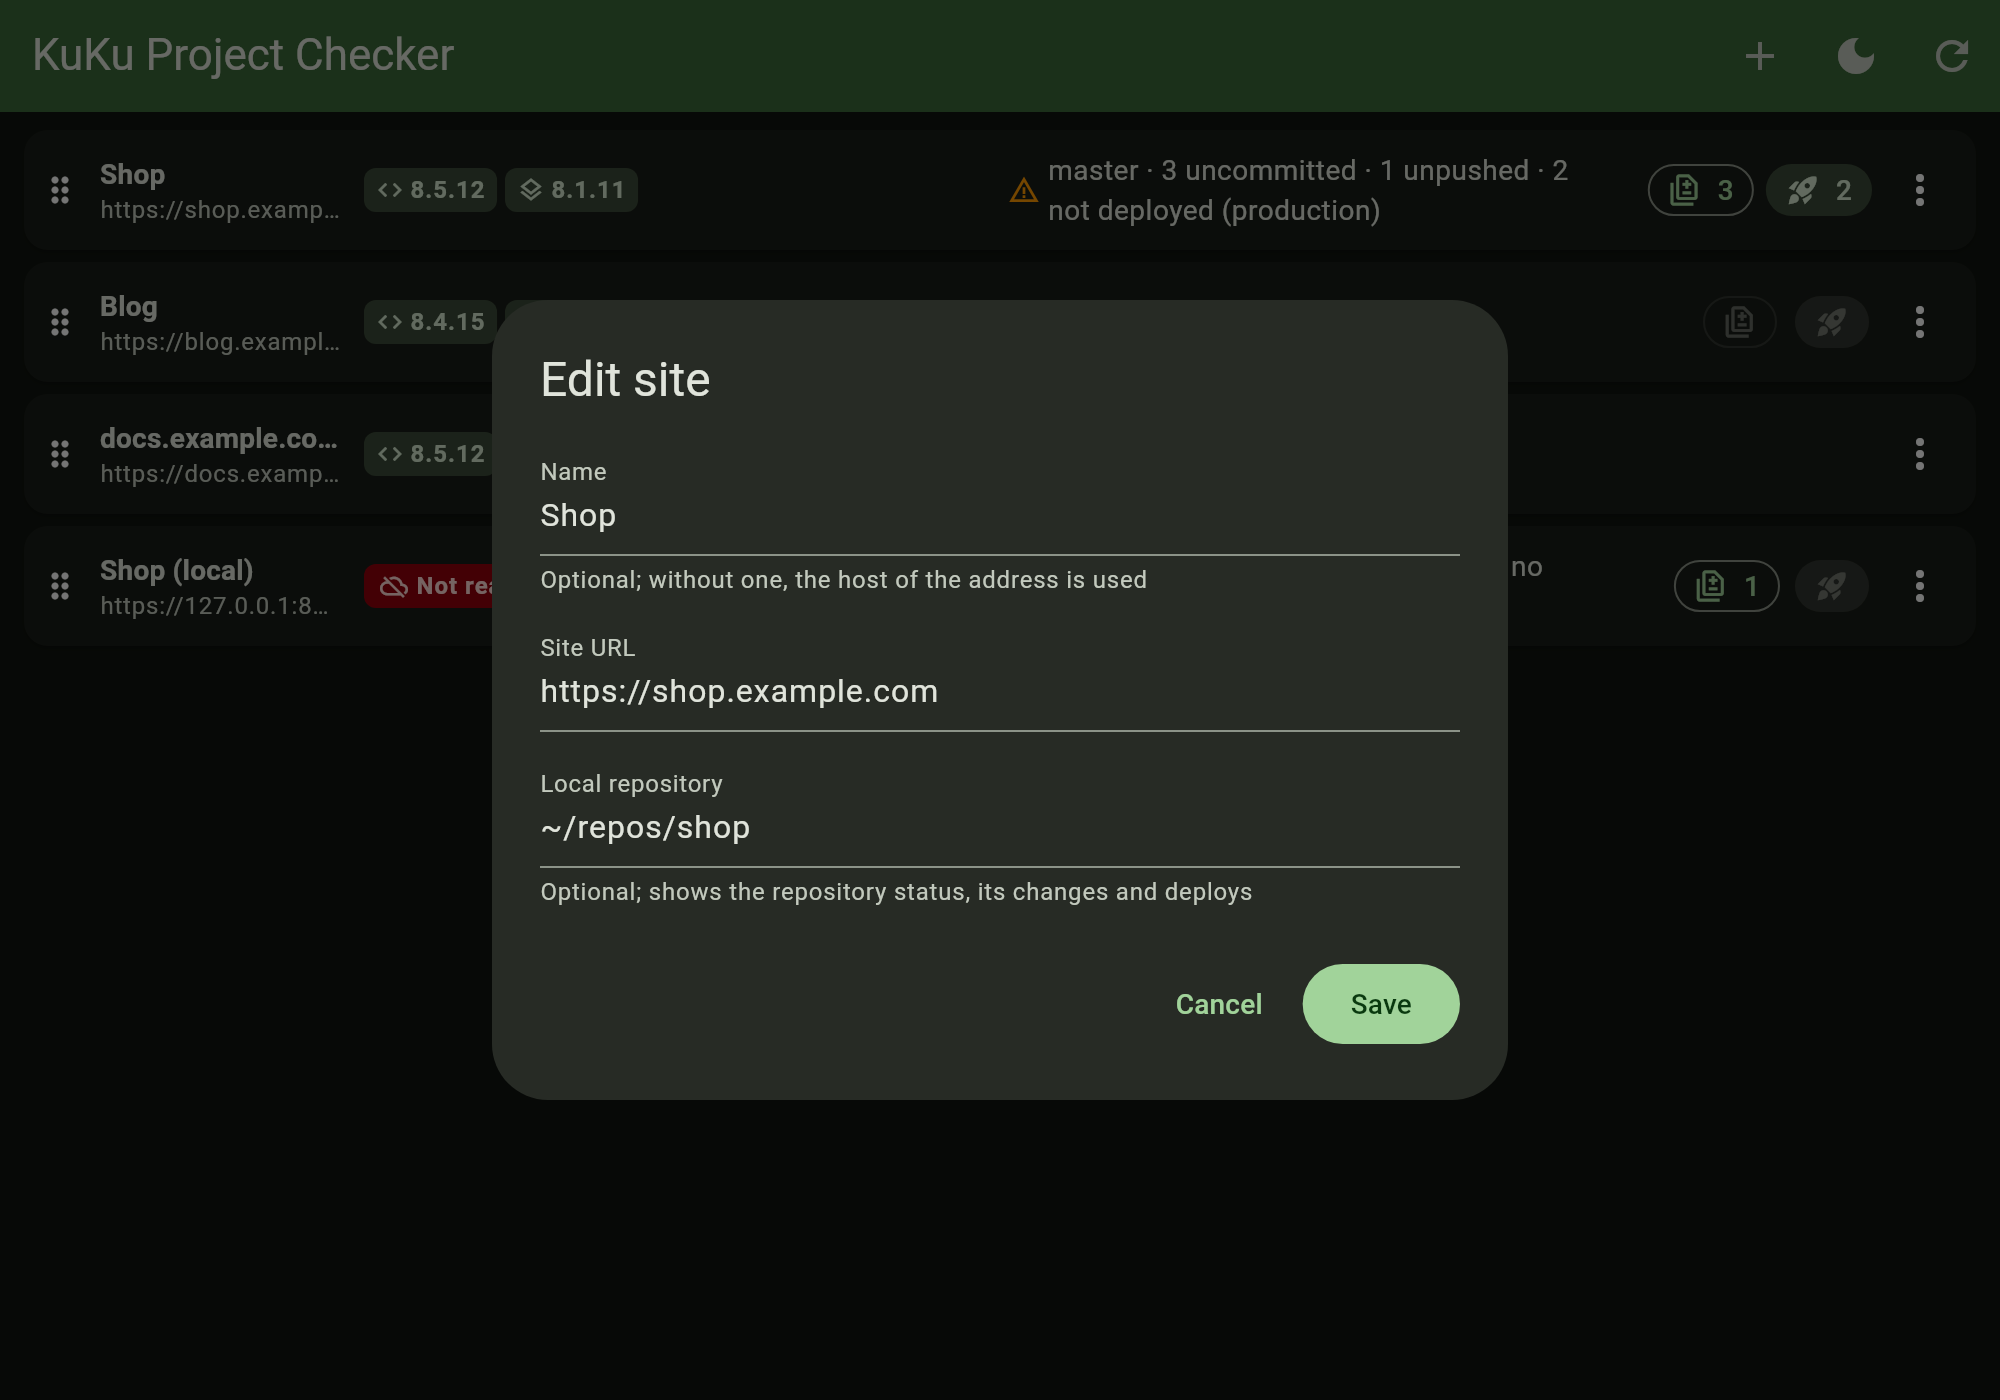
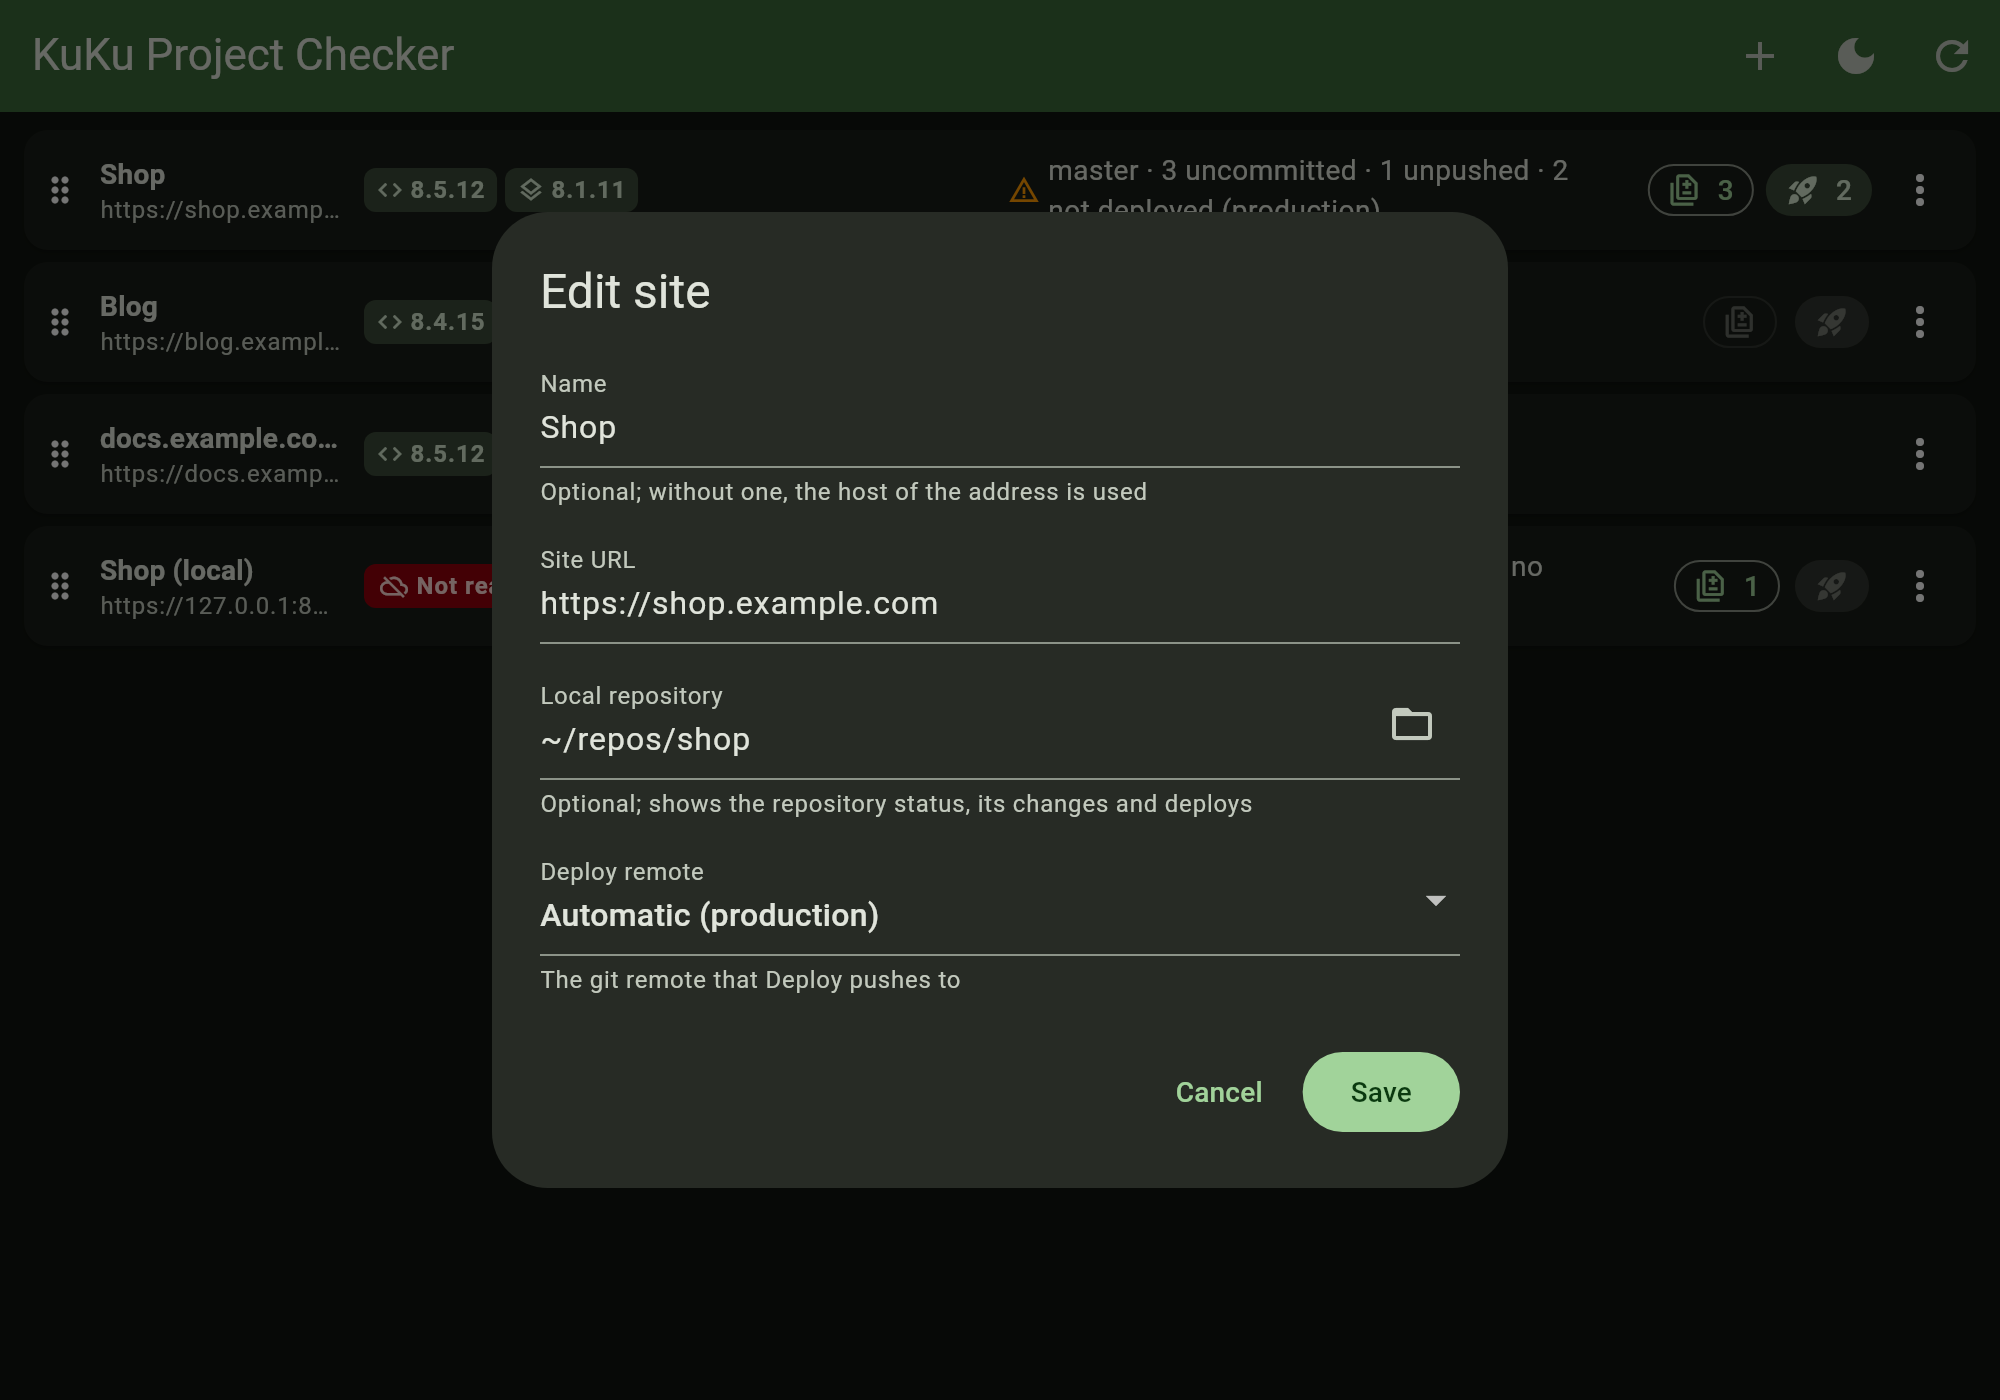
Upgrade the packages and update the edit site screenshot
- http 1.6.0, path_provider 2.1.6, url_launcher 6.3.3, cupertino_icons 2.0.0,
  flutter_lints 6.0.0; the constraints now start at these versions.
  path_provider pulls in jni, a native asset plugin: the Linux build now
  needs lld.
- The edit site screenshot shows the folder chooser and the deploy remote
  choice; the screenshot data has a GitHub and a Plesk remote.

diff --git a/docs/screenshots/screenshots_test.dart b/docs/screenshots/screenshots_test.dart
@@ -125,7 +125,11 @@ AppServices sampleServices() => AppServices(
       fetchInfo: (url) async =>
           versions[url] ?? (throw const SocketException('Connection refused')),
       checkRepo: (path, _) async => statuses[path]!,
-      listRemotes: (_) async => const [],
+      // Like a typical project: the code on GitHub, the deploys to a Plesk repository.
+      listRemotes: (_) async => const [
+        ('origin', 'git@github.com:example/shop.git'),
+        ('production', 'shop@server.example.com:~/git/shop.git'),
+      ],
       repoChanges: SampleChanges.new,
       push: (repoPath, remote, branch, onOutput) async {
         // Like a push to a Plesk repository: ssh's notice, curl's progress table
